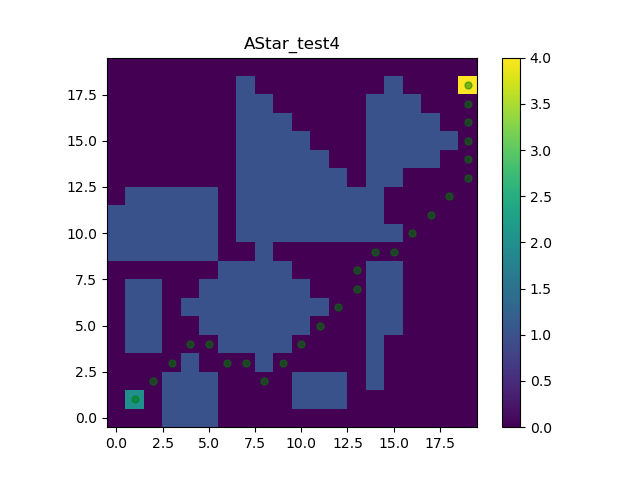
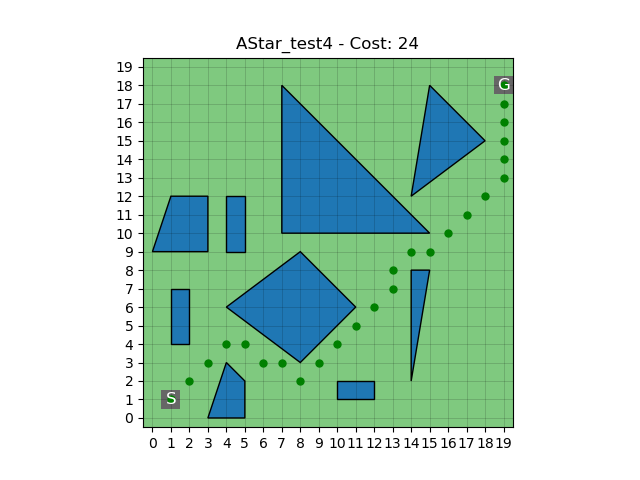
Done with display feature

diff --git a/Code/display.py b/Code/display.py
@@ -6,6 +6,7 @@ from aStar import *
 import os
 import matplotlib.pyplot as plt
 import copy
+import numpy as np
 
 # A wrapper for aStar algorithm
 class aStar_wrapper:
@@ -61,7 +62,7 @@ class Dijkstra_wrapper:
         return self.path
     
     def find_cost(self) -> int:
-        if self.path is not None:
+        if self.path is not None and len(self.path) != 0:
             return len(self.path) - 1
         else:
             return 0
@@ -90,23 +91,73 @@ class GBFS_wrapper:
         return self.path
 
     def find_cost(self) -> int:
-        if self.path is not None:
+        if self.path is not None and len(self.path) != 0:
             return len(self.path) - 1
         else:
             return 0
 
+# Class used for display features
 class Displayer:
-    @staticmethod
-    def draw(matrix, path, cost, name):
-        matplotlib.use('Agg')
-        plt.imshow(matrix, cmap='viridis', interpolation='nearest', origin='lower')
+    map = Map()
 
+    def __init__(self, map : Map) -> None:
+        # Copy map_info
+        self.map.map_info = map.map_info
+
+        # Create a new similar matrix without obstacles marked
+        self.map.matrix = np.zeros((map.map_info.map_limits['row_num'], map.map_info.map_limits['col_num']), dtype=int)
+
+        src = (map.map_info.points['start'][0], map.map_info.points['start'][1])
+        des = (map.map_info.points['end'][0], map.map_info.points['end'][1])
+        passing = map.map_info.points['passing_points']
+        
+        self.map.matrix[src[1]][src[0]] = 1
+        self.map.matrix[des[1]][des[0]] = 1
+        for point in passing:
+            self.map.matrix[point[1]][point[0]] = 1
+
+    def draw_shape(self, vertices):
+        # Draw filled polygon with colormap
+        polygon = plt.Polygon(vertices, closed=True, edgecolor='black')
+        plt.gca().add_patch(polygon)
+
+    def draw_path(self, ax, path):
         if path:
             shortest_path = np.array(path)
-            plt.plot(shortest_path[:, 0], shortest_path[:, 1], 'go', markersize=5, alpha=0.5)
+            ax.plot(shortest_path[:, 0], shortest_path[:, 1], 'go', markersize=5, alpha=1)
 
-        plt.colorbar()
-        plt.title(name)
+            # Mark start and end points with 'S' and 'G'
+            plt.text(shortest_path[0][0], shortest_path[0][1], 'S', color='white', fontsize=12, ha='center', va='center')
+            plt.text(shortest_path[len(shortest_path) - 1][0], shortest_path[len(shortest_path) - 1][1], 'G', color='white', fontsize=12, ha='center', va='center')
+
+    def set_axis(self):
+        # Set ticks and labels for x-axis and y-axis
+        plt.xticks(range(self.map.matrix.shape[1]), range(0, self.map.matrix.shape[1]))
+        plt.yticks(range(self.map.matrix.shape[0]), range(0, self.map.matrix.shape[0]))
+
+    def draw_grid(self):
+        plt.grid(which="both", color="black", linewidth=0.5, alpha=0.2)
+
+    def draw(self, path, cost, name):
+        matplotlib.use('Agg')
+        fig, ax = plt.subplots()
+
+        ax.imshow(self.map.matrix, cmap='Accent', interpolation='nearest', origin='lower')
+
+        # Draw path
+        self.draw_path(ax, path)
+
+        # Draw obstacles
+        for obstacle in self.map.map_info.obstacles:
+            self.draw_shape(obstacle)
+
+        # Set x-axis and y-axis
+        self.set_axis()
+
+        # Draw grid
+        self.draw_grid()
+
+        plt.title(f"{name} - Cost: {cost}")
         plt.savefig(f"Results/{name}.png")
         plt.close()
 
@@ -124,18 +175,20 @@ class AlgorithmTester:
                 # Create a map for this input
                 map = Map()
                 map.create(file_path)
+                
+                # Create a displayer for this input
+                displayer = Displayer(map)
 
                 # Find path with each iterated algorithm
                 for algorithm_class in self.algorithms:
-                    map_copy = copy.deepcopy(map)
-
                     algorithm_name = algorithm_class.name
                     print(f"Running tests for {algorithm_name}...")
 
-                    path, cost = self.run_test(algorithm_class, map_copy)
+                    # Find path
+                    path, cost = self.run_test(algorithm_class, map)
 
-                    Displayer.draw(map_copy.matrix, path, cost, f"{algorithm_name}_{filename.removesuffix('.txt')}")
-
+                    # Display
+                    displayer.draw(path, cost, f"{algorithm_name}_{filename.removesuffix('.txt')}")
 
     def run_test(self, algorithm_class, map):
         # Run the algorithm
